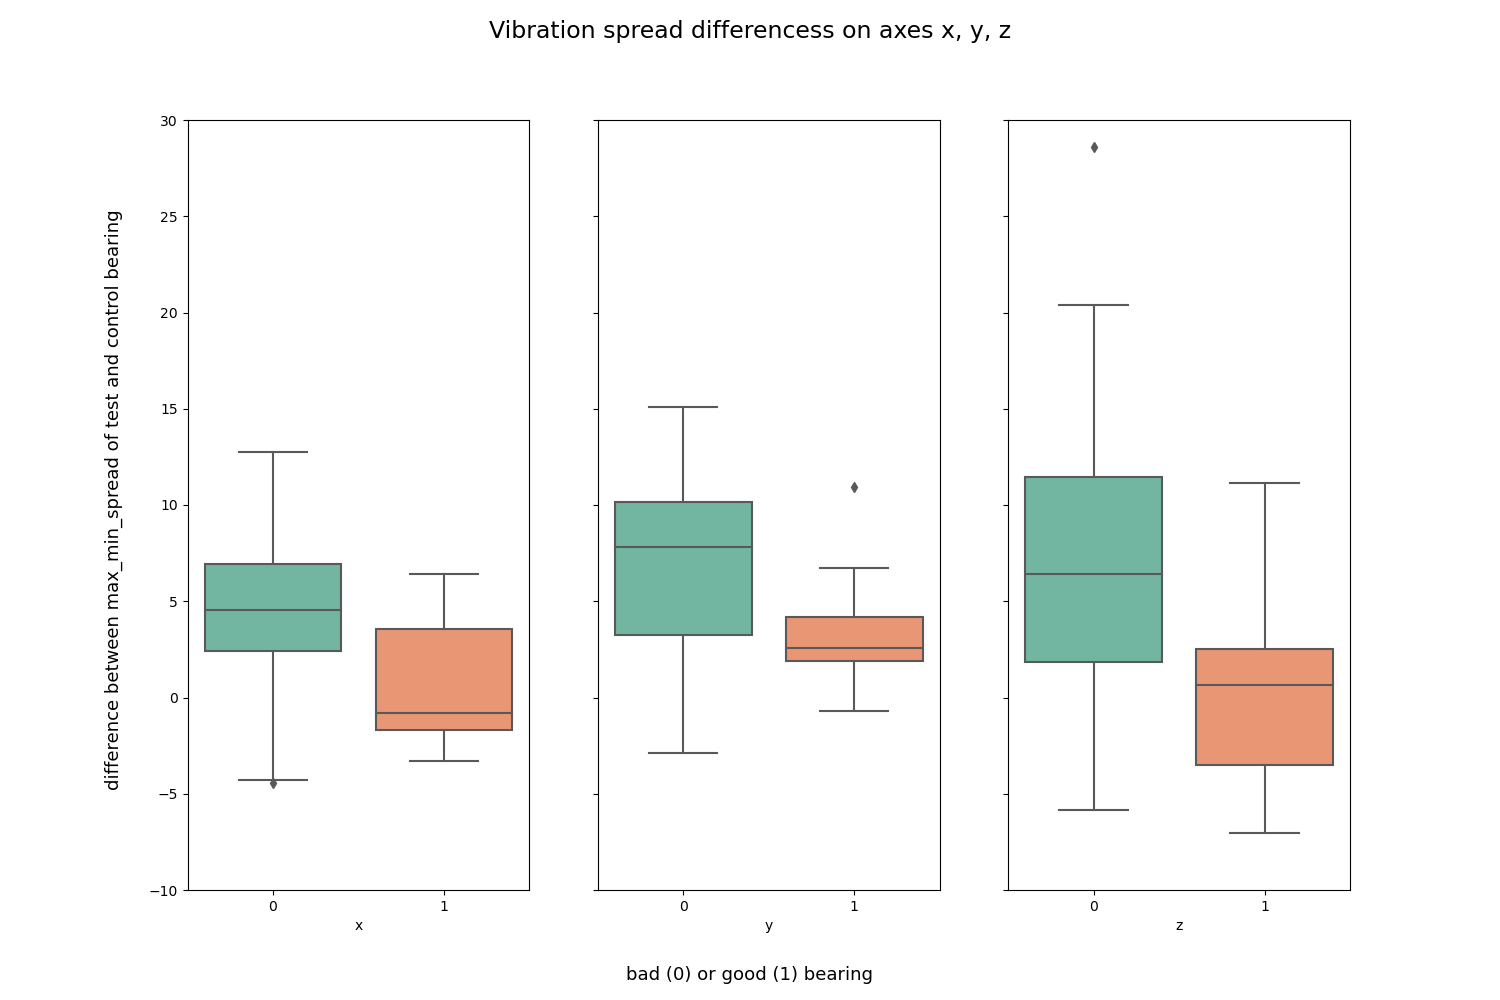
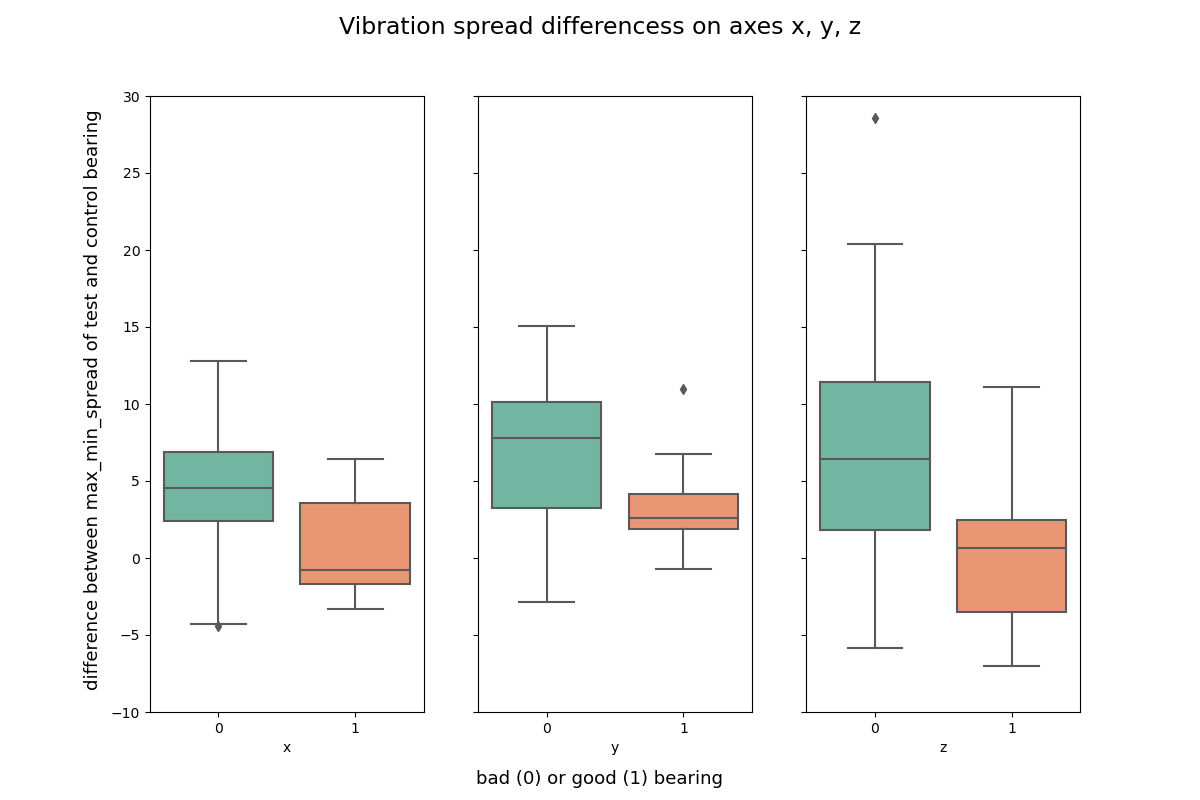
commit swarmplot function and visual

diff --git a/vibration_spread_comparison.py b/vibration_spread_comparison.py
@@ -71,7 +71,7 @@ def save_boxplot(spreads_df: pd.DataFrame, axis: str):
 
 
 def save_aligned_box_plots(x_spreads, y_spreads, z_spreads):
-    fig, (ax1, ax2, ax3) = plt.subplots(1, 3, figsize=(15, 10), sharey='all')
+    fig, (ax1, ax2, ax3) = plt.subplots(1, 3, figsize=(12, 8), sharey='all')
     plt.ylim([-10, 30])
     fig.suptitle('Vibration spread differencess on axes x, y, z', fontsize=17)
     fig.text(0.5, 0.02, 'bad (0) or good (1) bearing', fontsize=13, ha='center')
@@ -93,6 +93,29 @@ def save_aligned_box_plots(x_spreads, y_spreads, z_spreads):
     plt.clf()
 
 
+def save_aligned_swarmplots(x_spreads, y_spreads, z_spreads):
+    fig, (ax1, ax2, ax3) = plt.subplots(1, 3, figsize=(12, 8), sharey='all')
+    plt.ylim([-10, 30])
+    fig.suptitle('Vibration spread differencess on axes x, y, z', fontsize=17)
+    fig.text(0.5, 0.02, 'bad (0) or good (1) bearing', fontsize=13, ha='center')
+    plt.ylabel('differences between max_spread of a2 and a1')
+    fig.text(0.07, 0.5,
+         'difference between max_min_spread of test and control bearing',
+         fontsize=13,
+         rotation='vertical',
+         va='center')
+    x = sns.swarmplot(ax=ax1, x='target', y='difference_spread', data=x_spreads, palette='Set2', dodge=True)
+    x.set(xlabel='x', ylabel=None)
+    y = sns.swarmplot(ax=ax2, x='target', y='difference_spread', data=y_spreads, palette='Set2', dodge=True)
+    y.set(xlabel='y', ylabel=None)
+    z = sns.swarmplot(ax=ax3, x='target', y='difference_spread', data=z_spreads, palette='Set2', dodge=True)
+    z.set(xlabel='z', ylabel=None)
+    savefig_name = 'swarmplot_vibration_spread_differences_on_all_axes.png'
+    savegif_path = 'visuals\\' + savefig_name
+    plt.savefig(savegif_path)
+    plt.clf()
+
+
 x_spreads = get_spreads_per_axis('x')
 # write_to_csv(x_spreads, 'x')
 # save_boxplot(x_spreads, 'x')
@@ -106,3 +129,4 @@ z_spreads = get_spreads_per_axis('z')
 # save_boxplot(z_spreads, 'z')
 
 # save_aligned_box_plots(x_spreads, y_spreads, z_spreads)
+# save_aligned_swarmplots(x_spreads, y_spreads, z_spreads)
